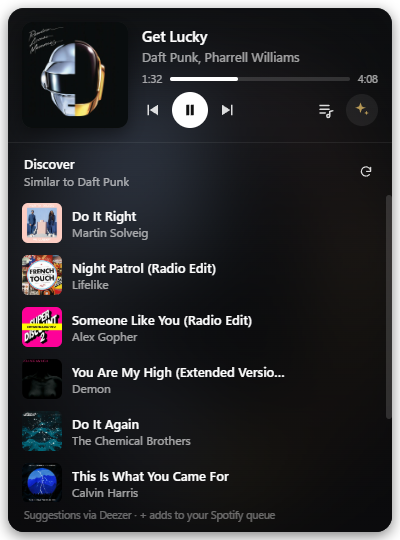
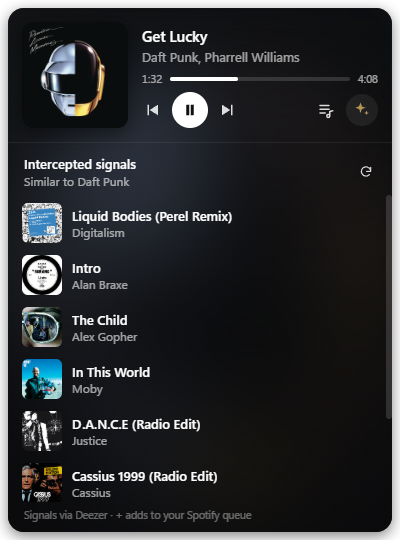
Rename to Voxcaster
Drop Spotify from the app name per Spotify's branding guidelines.
New exe, installer and app ID; settings migrate automatically from
the old spotify-mini folder. Light themed copy in Discover and setup.

Changed region(s): [[0.03, 0.3556, 0.69, 0.9778], [0.06, 0.2963, 0.36, 0.3259]]

diff --git a/main.js b/main.js
@@ -6,7 +6,16 @@ const path = require('path');
 
 // Keep settings in the same folder whether run from source or installed
 // (the installed app's name would otherwise give it a different folder).
-app.setPath('userData', path.join(app.getPath('appData'), 'spotify-mini'));
+app.setPath('userData', path.join(app.getPath('appData'), 'voxcaster'));
+
+// Carry settings (login, position) over from when the app was called Spotify Mini.
+(function migrateLegacyConfig() {
+  const legacy = path.join(app.getPath('appData'), 'spotify-mini', 'config.json');
+  const current = path.join(app.getPath('userData'), 'config.json');
+  if (fs.existsSync(current) || !fs.existsSync(legacy)) return;
+  fs.mkdirSync(path.dirname(current), { recursive: true });
+  fs.copyFileSync(legacy, current);
+})();
 
 const REDIRECT_PORT = 8888;
 const REDIRECT_URI = `http://127.0.0.1:${REDIRECT_PORT}/callback`;
@@ -113,7 +122,7 @@ function login() {
       const ok = code && url.searchParams.get('state') === state;
 
       res.writeHead(200, { 'Content-Type': 'text/html; charset=utf-8' });
-      res.end(callbackPage(ok ? 'Connected! You can close this tab.' : `Login failed: ${error || 'state mismatch'}`));
+      res.end(callbackPage(ok ? 'Vox link established. You can close this tab.' : `Login failed: ${error || 'state mismatch'}`));
       authServer.close();
       authServer = null;
       win?.show();
@@ -142,7 +151,7 @@ function login() {
 }
 
 function callbackPage(msg) {
-  return `<!doctype html><meta charset="utf-8"><title>Spotify Mini</title>
+  return `<!doctype html><meta charset="utf-8"><title>Voxcaster</title>
 <body style="margin:0;height:100vh;display:grid;place-items:center;background:#121214;color:#fff;font-family:Segoe UI,system-ui,sans-serif">
 <div style="text-align:center"><div style="font-size:40px">🎧</div><p style="font-size:18px">${msg}</p></div></body>`;
 }
@@ -364,7 +373,7 @@ function createWindow() {
     alwaysOnTop: config.pinned !== false,
     skipTaskbar: false,
     show: false,
-    title: 'Spotify Mini',
+    title: 'Voxcaster',
     icon: path.join(__dirname, 'assets', 'icon.png'),
     webPreferences: {
       preload: path.join(__dirname, 'preload.js'),

diff --git a/index.html b/index.html
@@ -4,7 +4,7 @@
   <meta charset="utf-8">
   <meta http-equiv="Content-Security-Policy"
         content="default-src 'self'; img-src https: data:; media-src https:; style-src 'self'; script-src 'self'">
-  <title>Spotify Mini</title>
+  <title>Voxcaster</title>
   <link rel="stylesheet" href="styles.css">
 </head>
 <body>
@@ -59,7 +59,7 @@
           <button id="btn-playlists" class="ic panel-btn" title="Your playlists (P)">
             <svg viewBox="0 0 24 24" class="stroke"><path d="M4 6h12M4 11h12M4 16h7M17 14v6M17 20a2 2 0 1 1-2-2h2M17 14l4-1"/></svg>
           </button>
-          <button id="btn-discover" class="ic discover" title="Discover similar songs (D)">
+          <button id="btn-discover" class="ic discover" title="Intercept signals: similar songs (D)">
             <svg viewBox="0 0 24 24"><path d="M10 2l1.8 5.2L17 9l-5.2 1.8L10 16l-1.8-5.2L3 9l5.2-1.8zM18 13l.9 2.1L21 16l-2.1.9L18 19l-.9-2.1L15 16l2.1-.9z"/></svg>
           </button>
         </div>
@@ -87,7 +87,7 @@
     <section id="discover" class="panel">
       <header>
         <div>
-          <div class="d-title">Discover</div>
+          <div class="d-title">Intercepted signals</div>
           <div class="d-sub" id="d-sub">Similar to what you're playing</div>
         </div>
         <button id="btn-refresh" class="ic sm" title="New suggestions">
@@ -95,13 +95,13 @@
         </button>
       </header>
       <ul id="d-list" class="list"></ul>
-      <div class="d-foot">Suggestions via Deezer · + adds to your Spotify queue</div>
+      <div class="d-foot">Signals via Deezer · + adds to your Spotify queue</div>
     </section>
 
     <!-- Setup -->
     <section id="setup">
       <h1>Connect Spotify</h1>
-      <p class="muted">One-time setup, takes about 2 minutes.</p>
+      <p class="muted">Link the vox to Spotify. One-time setup, about 2 minutes.</p>
       <ol>
         <li>Open the <a href="#" id="link-dash">Spotify Developer Dashboard</a> and click <b>Create app</b>.</li>
         <li>Give it any name, and add this <b>Redirect URI</b>:

diff --git a/renderer.js b/renderer.js
@@ -228,7 +228,7 @@ async function togglePanel(next) {
   if (view === 'discover') {
     if (state?.mainArtist && state.mainArtist !== discoverSeed) loadDiscover();
     else if (!state?.mainArtist && !discoverSeed) {
-      $('d-list').innerHTML = '<li class="d-empty">Play a song and I\'ll find similar ones.</li>';
+      $('d-list').innerHTML = '<li class="d-empty">Play a song and I\'ll intercept similar signals.</li>';
     }
   } else if (view === 'playlists' && !playlists) {
     loadPlaylists();

diff --git a/README.md b/README.md
@@ -2,9 +2,10 @@
   <img src="assets/icon.png" width="96" alt="">
 </p>
 
-<h1 align="center">Spotify Mini</h1>
+<h1 align="center">Voxcaster</h1>
 
 <p align="center">
+  <em>Transmitting on all frequencies.</em><br>
   A small, always-on-top desktop player for Spotify on Windows, with song discovery and quick playlist switching.
 </p>
 
@@ -13,7 +14,7 @@
 </p>
 
 <p align="center">
-  <img src="docs/discover.png" width="300" alt="Discover panel">
+  <img src="docs/discover.png" width="300" alt="Intercepted signals panel">
   &nbsp;
   <img src="docs/playlists.png" width="300" alt="Playlists panel">
 </p>
@@ -22,14 +23,14 @@
 
 - **Now playing**: album art, title, artist and a seekable progress bar, with colors that adapt to each cover
 - **Controls**: play/pause, next, previous (Space, ← and → work too)
-- **Discover**: songs from artists similar to what's playing, with 30-second previews and one-click *add to queue*
+- **Intercepted signals**: songs from artists similar to what's playing, with 30-second previews and one-click *add to queue*
 - **Playlists**: search your playlists, click to play, or shuffle-play
 - **Stays out of the way**: frameless, draggable from anywhere, pin on top, remembers its position
 - **Starts with Windows** (toggle in the ⋯ menu)
 
 ## Install
 
-Download `Spotify-Mini-Setup-x.y.z.exe` from the [latest release](../../releases/latest) and run it. It installs for your user only (no admin rights needed) and adds Start Menu and desktop shortcuts.
+Download `Voxcaster-Setup-x.y.z.exe` from the [latest release](../../releases/latest) and run it. It installs for your user only (no admin rights needed) and adds Start Menu and desktop shortcuts.
 
 The installer isn't code-signed, so Windows SmartScreen may warn the first time: click **More info → Run anyway**.
 
@@ -41,7 +42,7 @@ Spotify requires each user to bring their own (free) API app. The player walks y
 2. Add `http://127.0.0.1:8888/callback` as a **Redirect URI** and tick **Web API**.
 3. Copy the **Client ID** into the player and click **Connect Spotify**.
 
-Playback control needs **Spotify Premium** (a Spotify API rule). Login uses PKCE, so no client secret is stored. Tokens are kept locally in `%APPDATA%\spotify-mini\config.json`.
+Playback control needs **Spotify Premium** (a Spotify API rule). Login uses PKCE, so no client secret is stored. Tokens are kept locally in `%APPDATA%\voxcaster\config.json`.
 
 ## Development
 
@@ -65,7 +66,7 @@ npm run dist       # build the Windows installer into dist/
 - Spotify removed its recommendations API for new apps in 2024, so suggestions come from [Deezer's public API](https://developers.deezer.com/api) and are matched back to Spotify when you queue them.
 - Liked Songs and Spotify-made playlists (like Discover Weekly) aren't available through the API for new apps.
 
-This is a personal project and is not affiliated with or endorsed by Spotify.
+This is a personal fan project. It is not affiliated with or endorsed by Spotify or Games Workshop. Spotify is a trademark of Spotify AB.
 
 ## License
 
